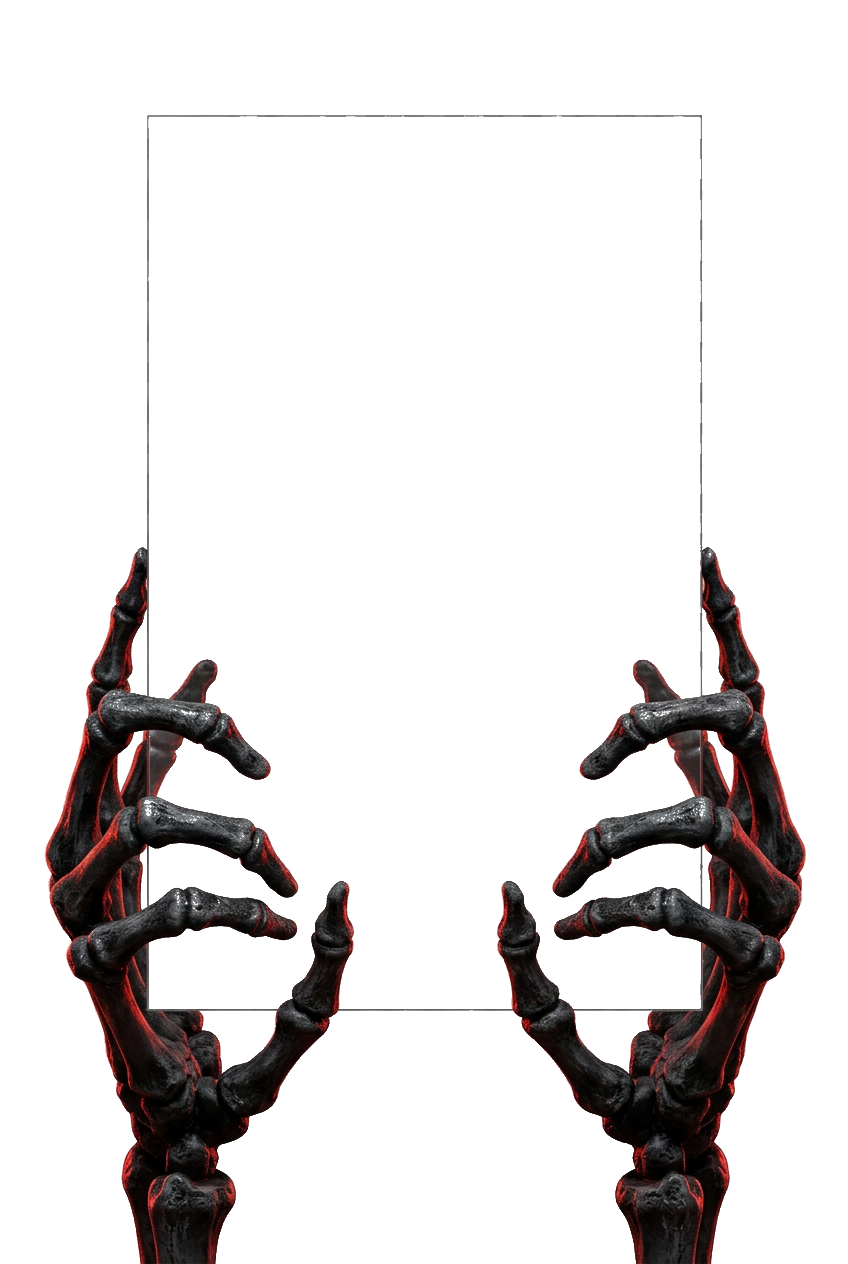
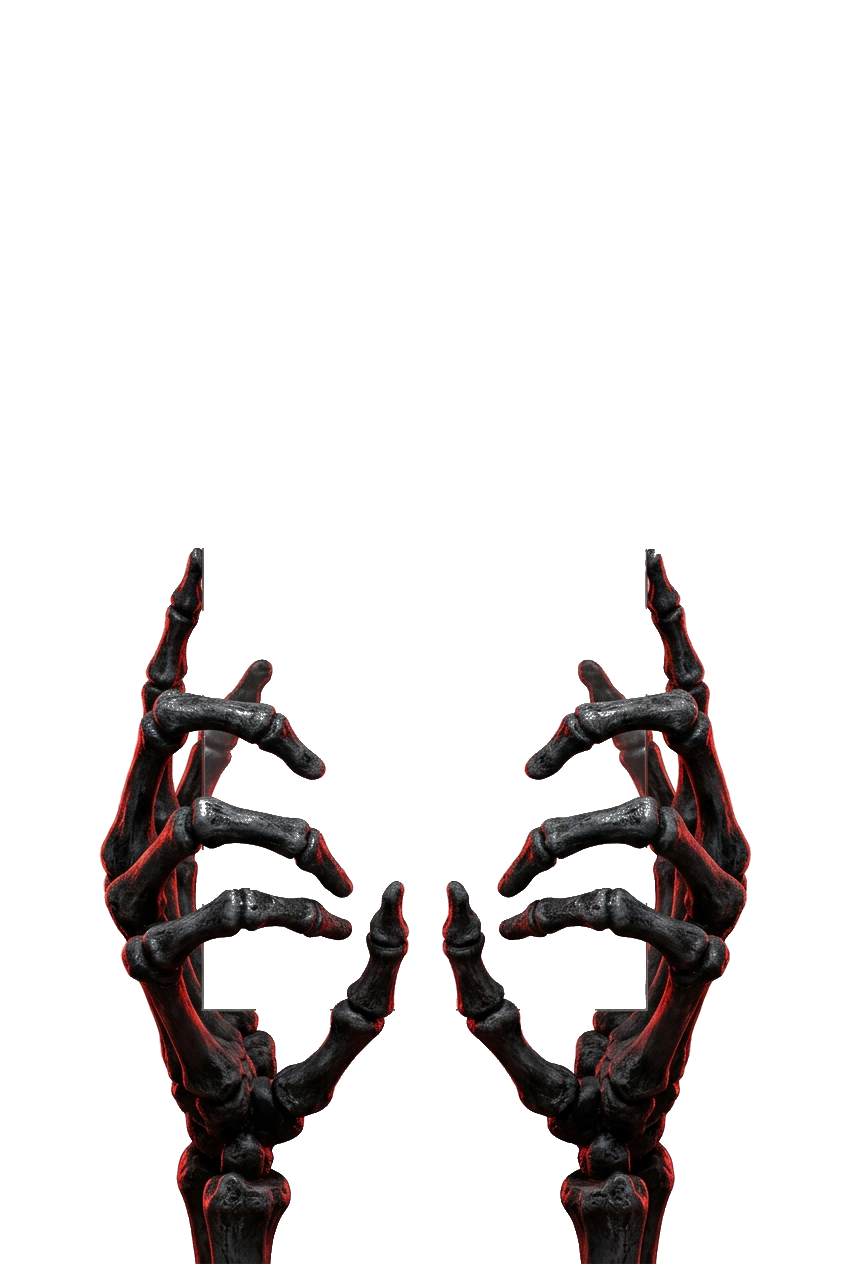
auto-commit for f52454c7-aa0a-4562-983e-691320ed3916

Changed region(s): [[0.0307, 0.432, 0.4906, 1.0], [0.5212, 0.432, 0.9505, 1.0]]

diff --git a/frontend/src/index.css b/frontend/src/index.css
@@ -398,15 +398,36 @@ body {
 }
 @keyframes ffSeaFlowA { from { transform: translateY(0); } to { transform: translateY(58px); } }
 @keyframes ffSeaFlowB { from { transform: translateY(0); } to { transform: translateY(89px); } }
-/* Seagull wingbeat — vertical squash/stretch of the silhouette reads as flapping */
+/* Seagull wingbeat: a few quick beats... then wings locked out in a GLIDE —
+   the squash/stretch of the silhouette reads as flapping */
 .ff-gull {
   transform-origin: 50% 42%;
   will-change: transform;
-  animation: ffFlap 0.8s ease-in-out infinite;
+  animation: ffFlap 2.6s ease-in-out infinite;
 }
 @keyframes ffFlap {
-  0%, 100% { transform: scaleY(1); }
-  50%      { transform: scaleY(0.6); }
+  0%   { transform: scaleY(1); }
+  7%   { transform: scaleY(0.55); }
+  14%  { transform: scaleY(1.06); }
+  21%  { transform: scaleY(0.55); }
+  28%  { transform: scaleY(1.06); }
+  35%  { transform: scaleY(0.58); }
+  44%  { transform: scaleY(0.95); }
+  52%, 90% { transform: scaleY(0.88); } /* wings held out — gliding */
+  100% { transform: scaleY(1); }
+}
+/* the long haul across the sky — horizontal only, the bob rides on top */
+@keyframes ffGullCruise {
+  0%   { transform: translateX(-24vw); }
+  100% { transform: translateX(126vw); }
+}
+/* climbs on the wingbeats, sinks through the glide, banking gently */
+@keyframes ffGullBob {
+  0%   { transform: translateY(0) rotate(0deg); }
+  30%  { transform: translateY(-13px) rotate(-4deg); }
+  55%  { transform: translateY(-7px) rotate(1.5deg); }
+  82%  { transform: translateY(6px) rotate(3deg); }
+  100% { transform: translateY(0) rotate(0deg); }
 }
 /* Seagulls gliding across the summer sky */
 @keyframes ffFly {

diff --git a/frontend/public/index.html b/frontend/public/index.html
@@ -60,7 +60,7 @@
         <title>Fork·Fate — Restaurant Roulette</title>
         <script>window.addEventListener("error",function(e){if(e.error instanceof DOMException&&e.error.name==="DataCloneError"&&e.message&&e.message.includes("PerformanceServerTiming")){e.stopImmediatePropagation();e.preventDefault()}},true);</script>
         <script>(function(){try{if('serviceWorker' in navigator){window.addEventListener('load',function(){navigator.serviceWorker.register('/service-worker.js',{scope:'/'}).catch(function(){});});}}catch(e){}})();</script>
-        <script>(function(){try{var FF_BUILD="2026.06-385";var prev=localStorage.getItem("ff_build");if(prev!==FF_BUILD){localStorage.setItem("ff_build",FF_BUILD);if(window.caches&&caches.keys){caches.keys().then(function(keys){keys.forEach(function(k){caches.delete(k);});});}if(prev&&!sessionStorage.getItem("ff_build_reloaded")){sessionStorage.setItem("ff_build_reloaded","1");location.reload(true);}}}catch(e){}})();</script>
+        <script>(function(){try{var FF_BUILD="2026.06-387";var prev=localStorage.getItem("ff_build");if(prev!==FF_BUILD){localStorage.setItem("ff_build",FF_BUILD);if(window.caches&&caches.keys){caches.keys().then(function(keys){keys.forEach(function(k){caches.delete(k);});});}if(prev&&!sessionStorage.getItem("ff_build_reloaded")){sessionStorage.setItem("ff_build_reloaded","1");location.reload(true);}}}catch(e){}})();</script>
         <script src="https://assets.emergent.sh/scripts/emergent-main.js"></script>
         <!-- Google Analytics 4 -->
         <script async src="https://www.googletagmanager.com/gtag/js?id=G-4E739B8J0H"></script>

diff --git a/frontend/src/components/ThemeScenes.jsx b/frontend/src/components/ThemeScenes.jsx
@@ -16,7 +16,7 @@ const FLYING_BIRDS = Array.from({ length: 8 }).map((_, i) => ({
   size: 38 + (i % 3) * 20,
   dur: 14 + (i % 5) * 3,
   delay: -(i * 3.2),
-  flap: 0.7 + (i % 3) * 0.16,
+  cycle: 2.6 + (i % 3) * 0.5, // one full flap-flap-flap... then glide
   flapDelay: -(i * 0.13),
 }));
 
@@ -284,8 +284,11 @@ export function SeasonScene({ theme, cfg }) {
         );
       })}
       {cfg.birds && FLYING_BIRDS.map((b, i) => (
-        <div key={`bird-${i}`} className="absolute left-0" style={{ top: b.top, animation: `ffFly ${b.dur}s linear ${b.delay}s infinite`, willChange: "transform", backfaceVisibility: "hidden" }}>
-          <img src={cfg.birds} alt="" className="ff-gull block opacity-40 drop-shadow-sm" style={{ width: b.size, animationDuration: `${b.flap}s`, animationDelay: `${b.flapDelay}s` }} />
+        <div key={`bird-${i}`} className="absolute left-0" style={{ top: b.top, animation: `ffGullCruise ${b.dur}s linear ${b.delay}s infinite`, willChange: "transform", backfaceVisibility: "hidden" }}>
+          {/* rises on the wingbeats, sinks into the glide, banking gently */}
+          <div style={{ animation: `ffGullBob ${b.cycle}s ease-in-out ${b.flapDelay}s infinite` }}>
+            <img src={cfg.birds} alt="" className="ff-gull block opacity-40 drop-shadow-sm" style={{ width: b.size, animationDuration: `${b.cycle}s`, animationDelay: `${b.flapDelay}s` }} />
+          </div>
         </div>
       ))}
     </div>

diff --git a/memory/PRD.md b/memory/PRD.md
@@ -2071,3 +2071,17 @@ User iterated rapid-fire on PixiePatrol (ThemeScenes.jsx). Final state:
 - Admin BetaTesters section left intact (admin-only tooling, not user-facing).
 - Verified: 0 elements containing "beta" on Home; header flows into sponsor
   marquee cleanly.
+
+## 2026-08-06 part 85: Reaper Hand Heist cleanup (FF_BUILD 387)
+- Bug: /skeleton-hands.png contained a faint baked-in rectangle outline (source
+  art had hands holding a card; background removal left the rectangle edges) —
+  rendered in-app as the "big black square" (same class of artifact as the old
+  dragon-hoard claw issue).
+- Fix (PIL, in place, dimensions unchanged 848x1264 so LogoHeist geometry
+  gripX=0.5/gripY=0.65/aspect kept valid): morphological opening on the alpha
+  channel (MinFilter x4 -> MaxFilter x5) erased the thin rectangle lines while
+  preserving the hands. Then per user request the two hands were shifted 55px
+  each toward center (halves recomposited) for a tighter, believable clutch.
+- FF_BUILD bumped 386 -> 387. Screenshot-verified live in Dark realm via
+  ff:heist event: clamp frame clean, no square, hands wrap the medallion.
+  User confirmed: "Looks better now".
